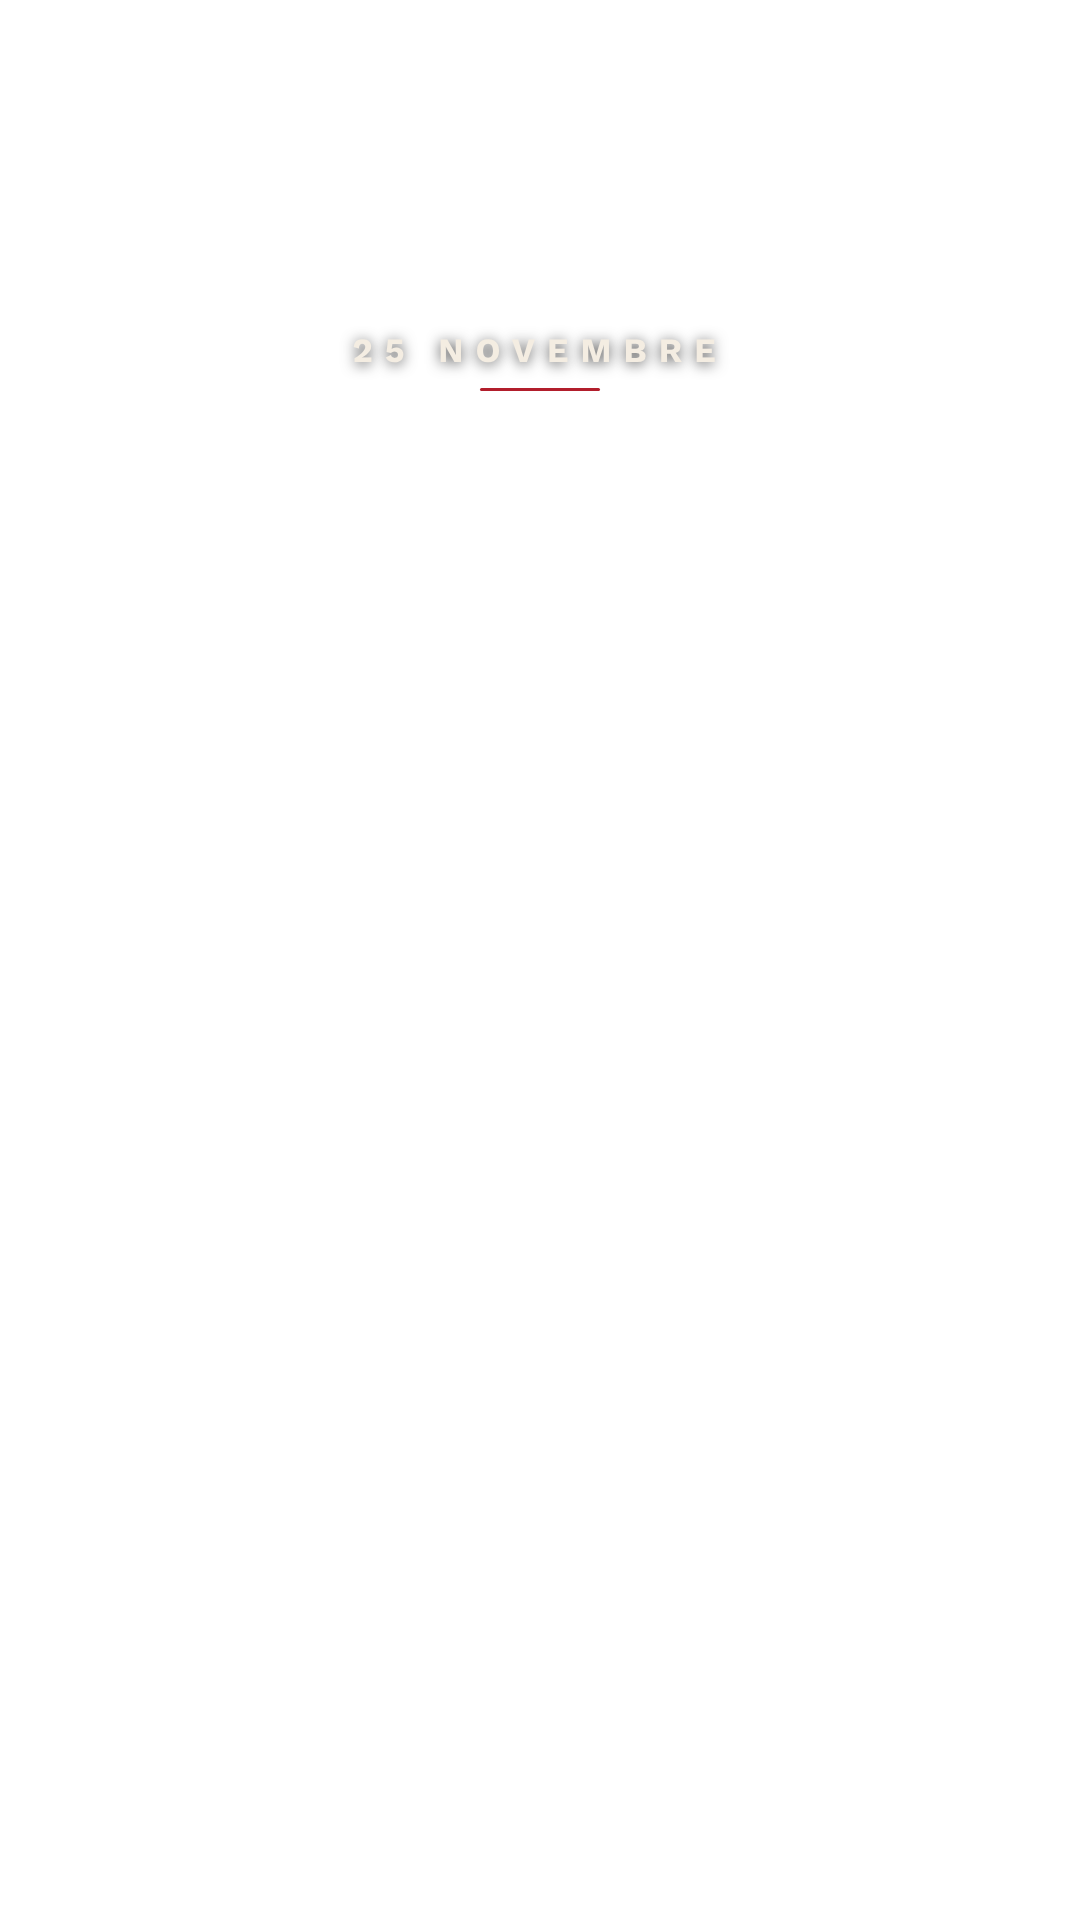
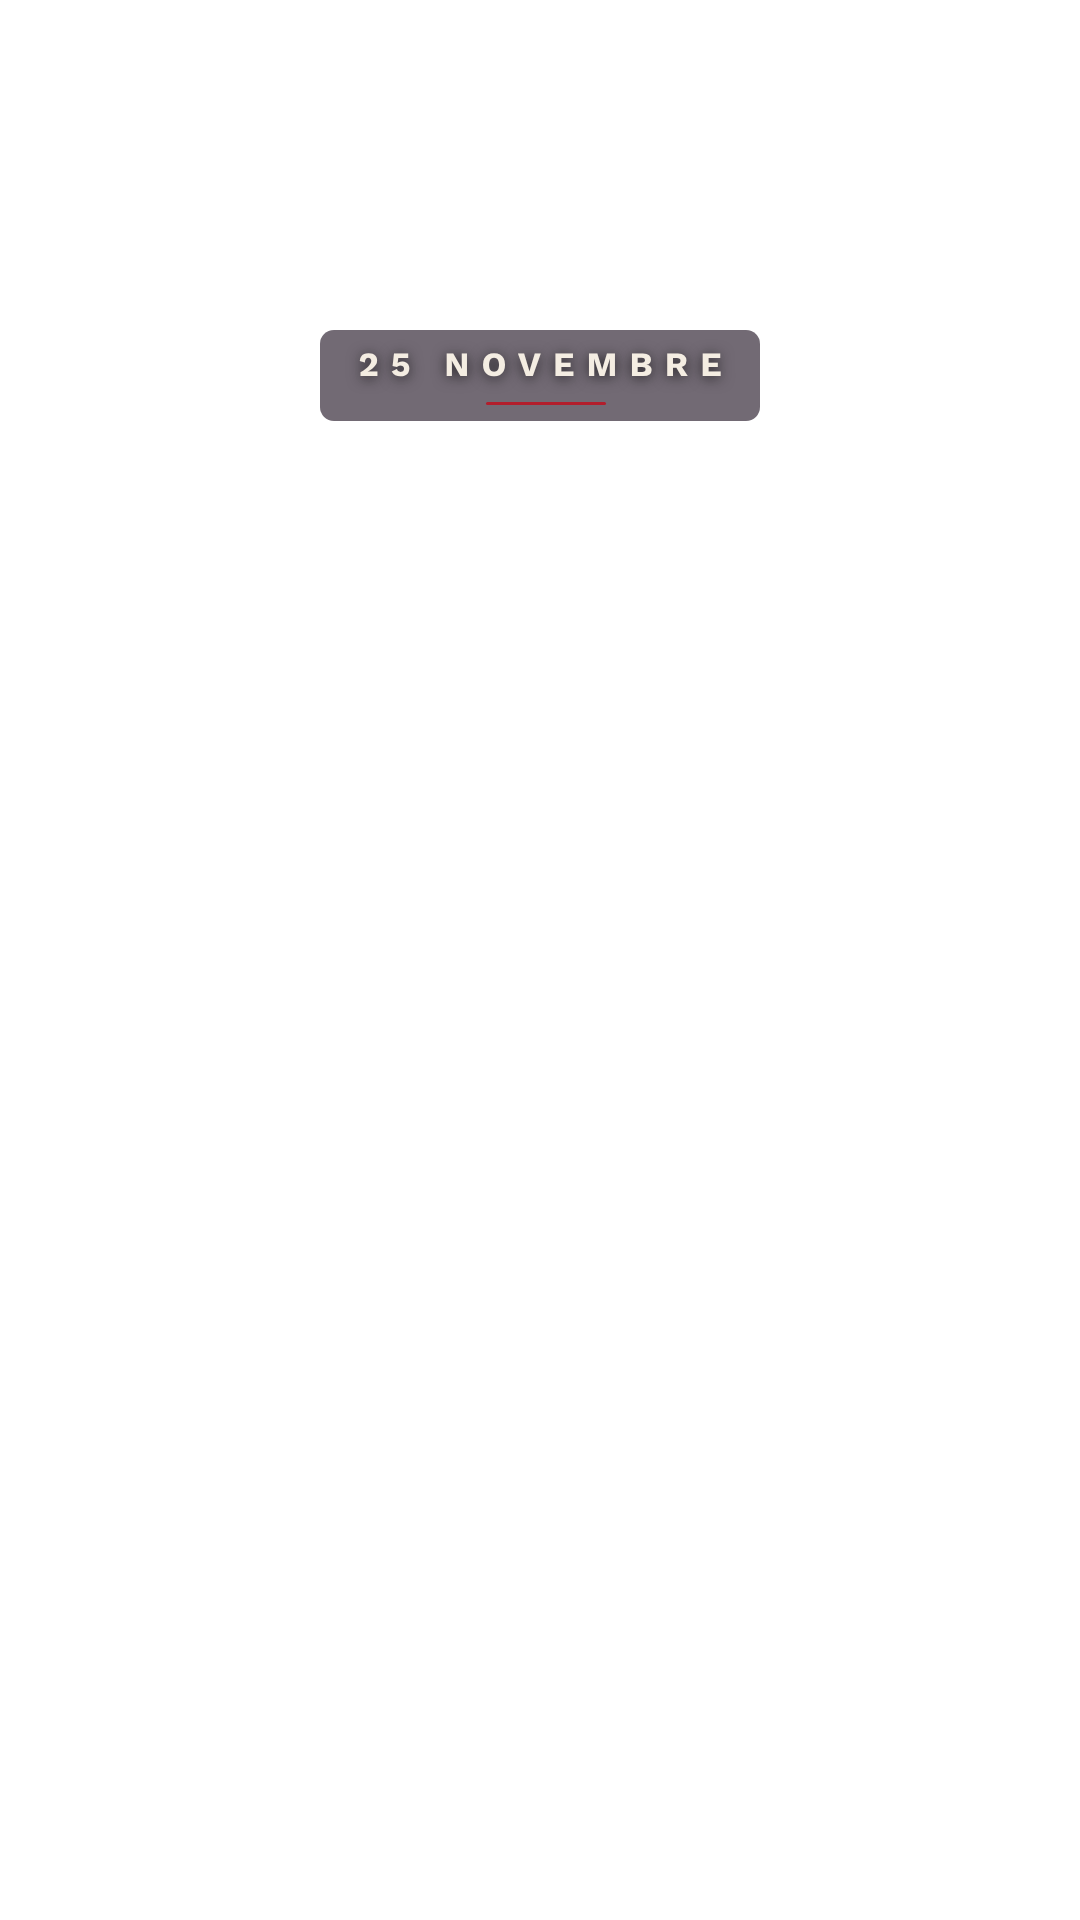
Un nodo al dito: uscite 16:9 e 9:16, asset HeyGen
Claude-Session: https://claude.ai/code/session_011VcYB1UyftPwdXssPuiLTX

Changed region(s): [[0.275, 0.1562, 0.7028, 0.2188]]

diff --git a/progetti/strumenti/nodo/testi.js b/progetti/strumenti/nodo/testi.js
@@ -16,8 +16,9 @@ const css = `html,body{margin:0;width:${W}px;height:${H}px;background:transparen
   text-shadow:0 2px 6px rgba(0,0,0,.85),0 0 26px rgba(20,10,22,.85)}
 .l{position:absolute;left:0;${F === '16x9' ? 'width:620px;top:470px' : 'right:0;top:330px'};text-align:center;font-family:'Work Sans';font-weight:700;
   font-size:${F === '16x9' ? 30 : 34}px;letter-spacing:12px;color:#F4EDE2;text-shadow:0 2px 14px rgba(0,0,0,.7)}
+.l b{display:inline-block;padding:14px 26px 16px 38px;border-radius:14px;background:${F === '9x16' ? 'rgba(28,15,31,.62)' : 'transparent'};font-weight:700}
 .l i{display:block;width:120px;height:3px;background:#B21E2C;margin:18px auto 0;border-radius:2px}`;
-const pagine = [['etichetta.png', '<div class="l">25 NOVEMBRE<i></i></div>']];
+const pagine = [['etichetta.png', '<div class="l"><b>25 NOVEMBRE<i></i></b></div>']];
 srt.forEach((t, i) => pagine.push([`sub_${String(i + 1).padStart(2, '0')}.png`, `<div class="s"><span>${t}</span></div>`]));
 (async () => {
   const b = await chromium.launch(); const p = await b.newPage({ viewport: { width: W, height: H } });

diff --git a/progetti/pdro-nodo-al-dito-25-novembre/REGISTRO.md b/progetti/pdro-nodo-al-dito-25-novembre/REGISTRO.md
@@ -21,3 +21,11 @@ Pacchetto V7_UN_NODO_AL_DITO (parte 1 testi e cartelli, parte 2 immagini e clip)
 - Musica ElevenLabs eleven_music_v2 edV30E4AdJuPc8OHjGVh (pianoforte, violoncello da 47 s): −10 dB senza voce, −20 dB sotto
   la voce, mezzo secondo di silenzio a 46,45 s; uscita a −16 LUFS.
 - TESTO_POST.md scritto da Claude con le frasi della voce, il 1522 e i delegati dei tre territori: da far rivedere ad Achille.
+
+## Uscite (25/11/2026)
+- 16:9 1920x1080 e 9:16 1080x1920, 76,0 s, 25 fps, −15,4 LUFS. Copie d'invio da 28 MB mandate in chat.
+- Asset HeyGen (account 1): 16:9 https://resource2.heygen.ai/video/260033e933124ac9b175ccb99e271239/original.mp4 ·
+  9:16 https://resource2.heygen.ai/video/2d52e922f1814c32b898b8166ee4d225/original.mp4
+- Correzioni dopo la prima prova: foto del nodo scurita, fascia prugna dietro sottotitoli ed etichetta (9:16), etichetta a
+  sinistra sul prugna nel 16:9.
+- Robin: in attesa dell'OK di Achille (oggi).
